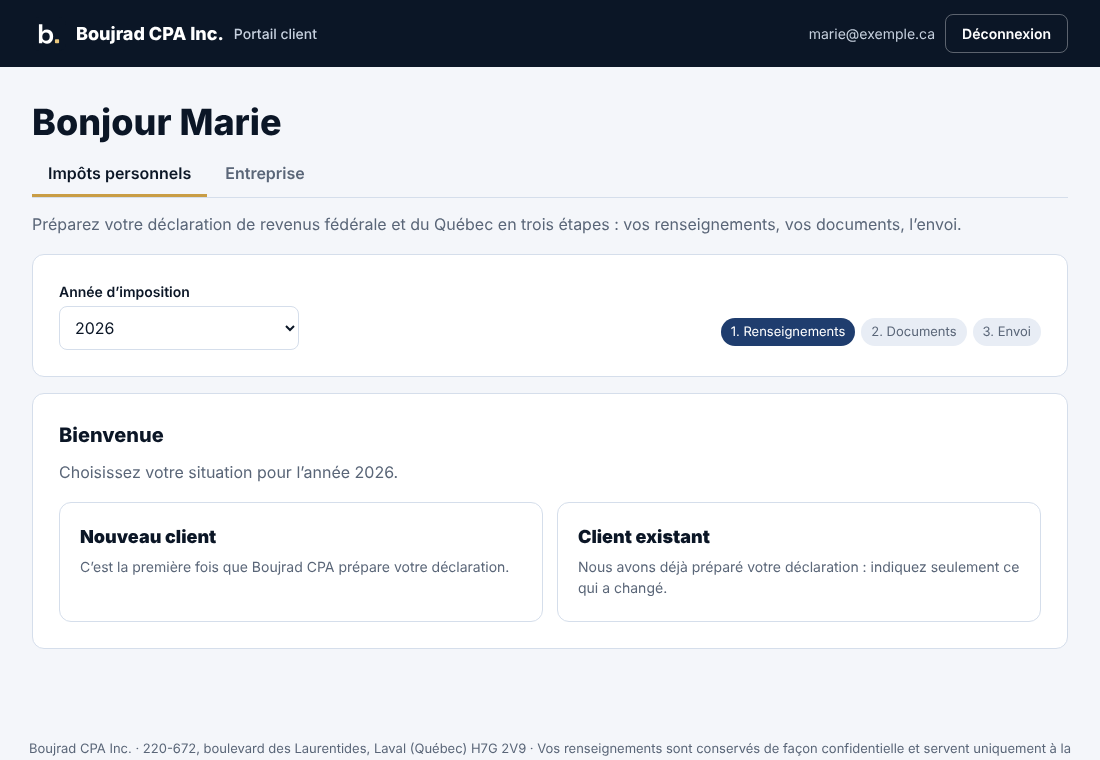
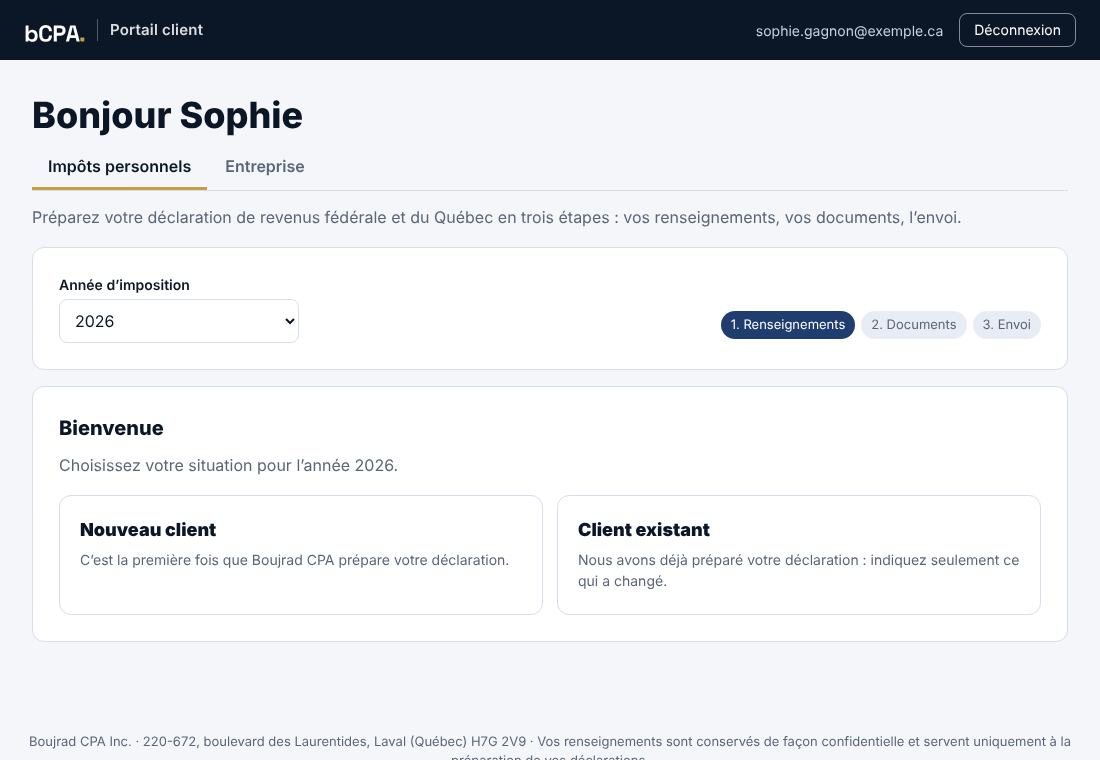
Guide du portail client refait : nouvelles captures propres (Sophie Gagnon, interface actuelle), dépôt en une seule fois mis en évidence (impôts personnels et entreprise), signature de documents, paiement des factures, questionnaires, autorisation comme représentant, sommaire cliquable
Claude-Session: https://claude.ai/code/session_0193Pq9QaKkmKEbjiHr2BjT5

diff --git a/site/guides/portail-client.html b/site/guides/portail-client.html
@@ -1,6 +1,6 @@
 <!DOCTYPE html><html lang="fr-CA"><head><meta charset="utf-8"><meta name="viewport" content="width=device-width,initial-scale=1">
-<title>Utiliser le portail client de Boujrad CPA · Boujrad CPA Inc.</title><script>document.documentElement.classList.add('js')</script><meta property="og:type" content="article"><meta property="og:site_name" content="Boujrad CPA Inc."><meta name="description" content="Créer votre compte, envoyer vos documents d’impôt, suivre votre entreprise et payer vos acomptes et vos taxes."><link rel="canonical" href="https://boujradcpa.com/guides/portail-client.html">
-<link rel="icon" href="/favicon.svg" type="image/svg+xml"><meta property="og:title" content="Utiliser le portail client de Boujrad CPA"><meta property="og:description" content="Créer votre compte, envoyer vos documents d’impôt, suivre votre entreprise et payer vos acomptes et vos taxes.">
+<title>Utiliser le portail client de Boujrad CPA · Boujrad CPA Inc.</title><script>document.documentElement.classList.add('js')</script><meta property="og:type" content="article"><meta property="og:site_name" content="Boujrad CPA Inc."><meta name="description" content="Créer votre compte, nous transmettre vos documents, signer, payer et suivre votre dossier, au même endroit."><link rel="canonical" href="https://boujradcpa.com/guides/portail-client.html">
+<link rel="icon" href="/favicon.svg" type="image/svg+xml"><meta property="og:title" content="Utiliser le portail client de Boujrad CPA"><meta property="og:description" content="Créer votre compte, nous transmettre vos documents, signer, payer et suivre votre dossier, au même endroit.">
 <link href="https://fonts.googleapis.com/css2?family=Inter:wght@400;500;600&family=Space+Grotesk:wght@500;700&display=swap" rel="stylesheet"><style>/* VOICE a CPA firm's public site: confident, warm, precise
    IDEA a ledger in motion: rising columns, ruled lines, totals that land
    PICTURE full-screen night-green hero with animated rising columns and a rotating lowercase promise
@@ -151,28 +151,49 @@ footer .brand{color:#fff}
 <div class="cxc cxm"><p class="cxk">Portail client</p><p class="cxd">Remplissez votre formulaire d’impôt et déposez vos documents en toute sécurité.</p><a class="btn deep" href="https://app.boujradcpa.com/portail.html">Accéder au portail</a><p class="cxn">Nouveau client? Créez votre compte sur le portail.</p></div>
 </div></div></header>
 <main class="gmain"><div class="wrap"><p class="crumb"><a href="/guides/">Guides</a> · Notre plateforme</p><h1>Utiliser le portail client de Boujrad CPA</h1>
-<p class="lede">Le portail client est l’endroit sécurisé pour nous transmettre vos renseignements et vos documents. Rien ne passe par courriel : vos pièces sont chiffrées et conservées au Canada.</p>
-<h2>Créer votre compte</h2><ol class="gsteps">
-<li><b>Ouvrez le portail</b><p>Allez à <a href="https://app.boujradcpa.com/portail.html">app.boujradcpa.com/portail.html</a>, ou cliquez sur <em>Connexion</em> puis <em>Portail client</em> en haut de notre site.</p></li>
+<p class="lede">Le portail client est votre espace sécurisé avec Boujrad CPA : vous y déposez vos documents, remplissez nos questionnaires, signez vos documents, consultez ce qui est à payer et nous écrivez. Rien ne passe par courriel : vos pièces sont chiffrées et conservées au Canada.</p>
+<div class="need"><strong>En un coup d’œil</strong><ul><li><a href="#compte">Créer votre compte</a></li><li><a href="#impots">Impôts personnels</a></li><li><a href="#entreprise">Espace Entreprise</a></li><li><a href="#signer">Signer un document</a></li><li><a href="#factures">Payer une facture du cabinet</a></li><li><a href="#questionnaires">Questionnaires de service</a></li><li><a href="#representant">Nous autoriser comme représentant</a></li></ul></div>
+
+<h2 id="compte">Créer votre compte</h2><ol class="gsteps">
+<li><b>Ouvrez le portail</b><p>Allez à <a href="https://app.boujradcpa.com/portail.html">app.boujradcpa.com/portail.html</a>, ou cliquez sur <em>Connexion</em>, puis <em>Portail client</em>, en haut de notre site. Si nous vous avons envoyé un lien d’invitation, utilisez-le : votre entreprise sera ajoutée automatiquement.</p></li>
 <li><b>Cliquez sur « Créer un compte »</b><p>Inscrivez votre nom, votre courriel et un mot de passe d’au moins 8 caractères.</p><img class="shot" src="img/portail-1-compte.png" alt="Formulaire de création de compte du portail" loading="lazy" width="1100"></li>
-<li><b>Confirmez votre courriel</b><p>Ouvrez le courriel de confirmation et cliquez sur le lien. Vous pouvez ensuite vous connecter en tout temps.</p></li>
+<li><b>Confirmez votre courriel</b><p>Ouvrez le courriel de confirmation et cliquez sur le lien. Vous pouvez ensuite vous connecter en tout temps, à partir d’un ordinateur, d’une tablette ou d’un téléphone.</p></li>
 </ol>
-<div class="tip"><strong>Mot de passe oublié?</strong> Entrez votre courriel sur la page de connexion, puis cliquez sur « Mot de passe oublié? » : un lien de réinitialisation vous est envoyé.</div>
-<h2>Impôts personnels : votre déclaration en trois étapes</h2><ol class="gsteps">
-<li><b>Choisissez l’année et votre situation</b><p><em>Nouveau client</em> si c’est votre première année avec nous, <em>Client existant</em> si nous avons déjà préparé votre déclaration : vous indiquez alors seulement ce qui a changé.</p><img class="shot" src="img/portail-2-accueil.png" alt="Choix nouveau client ou client existant" loading="lazy" width="1100"></li>
-<li><b>Remplissez le formulaire</b><p>Les champs marqués d’un astérisque sont requis. Si vous faites votre déclaration avec votre conjoint, ses renseignements sont dans le même formulaire : il n’a pas besoin de compte.</p><img class="shot" src="img/portail-3-formulaire.png" alt="Formulaire des impôts personnels" loading="lazy" width="1100"></li>
-<li><b>Déposez tous vos documents en une seule fois</b><p>La liste des documents à prévoir s’adapte à vos réponses. Glissez vos fichiers (PDF ou photos) dans la zone de dépôt, puis envoyez votre dossier.</p></li>
+<div class="tip"><strong>Mot de passe oublié?</strong> Sur la page de connexion, entrez votre courriel et cliquez sur « Mot de passe oublié? » : un lien de réinitialisation vous est envoyé.</div>
+
+<h2 id="impots">Impôts personnels : votre déclaration en trois étapes</h2><ol class="gsteps">
+<li><b>Choisissez l’année et votre situation</b><p><em>Nouveau client</em> si c’est votre première année avec nous; <em>Client existant</em> si nous avons déjà préparé votre déclaration : vous indiquez alors seulement ce qui a changé.</p><img class="shot" src="img/portail-2-accueil.png" alt="Accueil du portail : choix de la situation" loading="lazy" width="1100"></li>
+<li><b>Remplissez le formulaire</b><p>Les champs marqués d’un astérisque sont requis. Si nous préparons aussi la déclaration de votre conjoint, ses renseignements sont dans le même formulaire : il n’a pas besoin de compte. Vos réponses sont enregistrées au fur et à mesure.</p><img class="shot" src="img/portail-3-formulaire.png" alt="Formulaire de renseignements" loading="lazy" width="1100"></li>
+<li><b>Déposez tous vos documents en une seule fois</b><p>La liste des documents à prévoir s’adapte à vos réponses. Attendez d’avoir <strong>tous</strong> vos feuillets et reçus, puis glissez-les tous ensemble dans la zone de dépôt (PDF ou photos) et envoyez votre dossier.</p><img class="shot" src="img/portail-3b-documents.png" alt="Étape des documents, avec la consigne de tout déposer en une seule fois" loading="lazy" width="1100"></li>
 </ol>
-<h2>Espace Entreprise</h2><ol class="gsteps">
-<li><b>Entrez votre code d’invitation</b><p>Nous vous remettons un code pour chaque entreprise. Onglet <em>Entreprise</em>, entrez le code, puis cliquez sur <em>Accéder</em>. Vous pouvez ajouter plusieurs entreprises au même compte.</p><img class="shot" src="img/portail-4-code.png" alt="Saisie du code d’invitation" loading="lazy" width="1100"></li>
-<li><b>Consultez ce qui est à payer</b><p>Quand nous préparons une déclaration de taxes ou d’impôt, vous recevez un courriel. Le montant, la date limite et le code de paiement sont dans <em>À payer et documents du cabinet</em>. Une fois le paiement fait à votre institution financière, cliquez sur <em>J’ai fait le paiement</em> : nous sommes avisés.</p><img class="shot" src="img/portail-5-payer.png" alt="Documents à payer dans l’espace Entreprise" loading="lazy" width="1100"></li>
-<li><b>Déposez vos documents de la période</b><p>Onglet <em>Déposer des documents</em> : choisissez la période (relevés bancaires, factures), déposez tout, puis cliquez sur <em>J’ai terminé</em>.</p><img class="shot" src="img/portail-6-depot.png" alt="Dépôt de documents par période" loading="lazy" width="1100"></li>
-<li><b>Factures, échéancier et messages</b><p>Retrouvez vos factures, les prochaines dates limites de votre entreprise, et écrivez-nous dans <em>Messages</em> (avec pièces jointes au besoin).</p></li>
+<div class="tip"><strong>Important : tout en une seule fois.</strong> Nous préparons votre déclaration directement à partir des documents déposés, dès leur réception. Ne les envoyez pas au fur et à mesure : s’il vous manque un feuillet, gardez vos documents et revenez lorsque vous aurez tout en main. Cela évite les oublis et les retards.</div>
+
+<h2 id="entreprise">Espace Entreprise</h2><ol class="gsteps">
+<li><b>Ajoutez votre entreprise</b><p>Onglet <em>Entreprise</em> : entrez le code d’invitation que nous vous avons remis, puis cliquez sur <em>Accéder</em>. Vous pouvez ajouter plusieurs entreprises au même compte (bouton <em>Ajouter une autre entreprise</em>).</p><img class="shot" src="img/portail-4-code.png" alt="Ajout d’une entreprise avec le code d’invitation" loading="lazy" width="1100"></li>
+<li><b>Consultez ce qui est à payer</b><p>Quand nous préparons une déclaration de taxes ou d’impôt, vous recevez un courriel. Le montant, la date limite et le code de paiement sont dans <em>À payer et documents du cabinet</em>. Le paiement se fait auprès du gouvernement; une fois fait, cliquez sur <em>J’ai fait le paiement</em> pour nous en informer.</p><img class="shot" src="img/portail-5-payer.png" alt="Montants à payer et documents du cabinet" loading="lazy" width="1100"></li>
+<li><b>Déposez les documents de la période, tous en une seule fois</b><p>Onglet <em>Déposer des documents</em> : choisissez la période, déposez <strong>tous</strong> les relevés bancaires et de cartes, factures de ventes et d’achats, puis cliquez sur <em>J’ai terminé</em>. Nous préparons vos déclarations directement à partir de ce dépôt : s’il manque quelque chose, attendez d’avoir tout.</p><img class="shot" src="img/portail-6-depot.png" alt="Dépôt de documents de la période" loading="lazy" width="1100"></li>
+<li><b>Factures, échéancier et messages</b><p><em>Factures</em> : vos factures du cabinet et leur état. <em>Échéancier</em> : les prochaines dates limites de votre entreprise (taxes, retenues, impôt). <em>Messages</em> : écrivez-nous, avec pièces jointes au besoin; nous vous répondons au même endroit.</p></li>
 </ol>
-<h2>Questionnaires de service</h2>
-<p>Pour certains mandats (constitution d’une société, allocations pour enfants, pensions de retraite, succession, etc.), nous vous envoyons un lien vers un questionnaire. Il s’ouvre dans votre portail : répondez aux questions et déposez chaque pièce demandée à l’endroit prévu. Vos réponses sont enregistrées au fur et à mesure; cliquez sur <em>Envoyer au cabinet</em> quand tout est complet.</p>
-<img class="shot" src="img/portail-7-questionnaire.png" alt="Questionnaire de constitution de société" loading="lazy" width="1100">
-<div class="tip"><strong>Sécurité.</strong> Ne nous envoyez jamais de numéro d’assurance sociale ni de documents d’identité par courriel. Utilisez toujours le portail.</div>
+
+<h2 id="signer">Signer un document</h2>
+<p>Votre contrat de services, une procuration de Revenu Québec (formulaire MR-69) ou tout autre document à signer vous attend dans <em>À payer et documents du cabinet</em>, avec la mention <em>Document à signer</em>. Vous recevez aussi un courriel.</p><ol class="gsteps">
+<li><b>Cliquez sur « Lire et signer »</b><p>Le document s’affiche. Lisez-le au complet.</p><img class="shot" src="img/portail-8-a-signer.png" alt="Document à signer dans le portail" loading="lazy" width="1100"></li>
+<li><b>Cliquez à l’endroit où signer, puis signez</b><p>Cliquez sur la case de signature du document, inscrivez votre nom (et votre titre si vous signez pour une entreprise), signez avec la souris ou le doigt, puis cochez la case de consentement.</p><img class="shot" src="img/portail-8b-signature.png" alt="Signature électronique du document" loading="lazy" width="1100"></li>
+<li><b>Cliquez sur « Signer le document »</b><p>C’est fait : nous sommes avisés, et votre copie signée est disponible en tout temps dans votre portail (bouton <em>Copie signée</em>).</p></li>
+</ol>
+
+<h2 id="factures">Payer une facture du cabinet</h2>
+<p>Si vous n’êtes pas prélevé par débit préautorisé, vous recevez nos factures par courriel, avec un lien vers une page de paiement sécurisée. Vous pouvez y payer par virement Interac (les instructions y sont indiquées) ou, lorsque l’option est offerte, par carte de crédit. Vos factures sont aussi dans l’onglet <em>Factures</em> du portail.</p>
+
+<h2 id="questionnaires">Questionnaires de service</h2>
+<p>Pour certains mandats (ouverture de dossier, constitution d’une société, fin d’exercice, allocations pour enfants, pensions de retraite, succession, etc.), nous vous envoyons un lien vers un questionnaire. Il s’ouvre dans votre portail : répondez aux questions et déposez chaque pièce demandée au bon endroit. Vos réponses sont enregistrées automatiquement; vous pouvez revenir terminer plus tard, puis cliquez sur <em>Envoyer au cabinet</em>.</p>
+<img class="shot" src="img/portail-7-questionnaire.png" alt="Questionnaire de service dans le portail" loading="lazy" width="1100">
+
+<h2 id="representant">Nous autoriser comme représentant</h2>
+<p>Pour que nous puissions parler à l’ARC et à Revenu Québec en votre nom, la carte <em>Nous autoriser comme représentant</em> du portail vous explique quoi faire. Le plus souvent, nous faisons la demande à l’ARC et vous n’avez qu’à la confirmer dans votre compte; pour Revenu Québec, nous vous faisons signer la procuration dans le portail. Toutes les étapes sont dans le guide <a href="autoriser-representant.html">Autoriser Boujrad CPA comme représentant</a>.</p>
+<img class="shot" src="img/portail-9-representant.png" alt="Carte Nous autoriser comme représentant" loading="lazy" width="1100">
+
+<div class="tip"><strong>Sécurité.</strong> Ne nous envoyez jamais de numéro d’assurance sociale, de pièce d’identité ni de document fiscal par courriel : utilisez toujours le portail. Nous ne vous demanderons jamais votre mot de passe.</div>
 <p style="margin-top:28px"><a class="btn deep" href="https://app.boujradcpa.com/portail.html">Aller au portail client</a></p><p style="margin-top:36px"><a href="/guides/">← Tous les guides</a></p></div></main>
 <footer><div class="wrap"><div><a class="brand" href="/"><svg class="wm" width="60.9" height="24" viewBox="0 -2 264 104" role="img" aria-label="bCPA"><path d="M36.800000000000004 101.4Q30.1 101.4 26.5 99.1Q22.900000000000002 96.8 21.200000000000003 94.0H19.400000000000002V100.0H7.0V30.0H19.6V56.099999999999994H21.400000000000002Q22.5 54.3 24.35 52.699999999999996Q26.200000000000003 51.099999999999994 29.250000000000004 50.05Q32.300000000000004 49.0 36.800000000000004 49.0Q42.800000000000004 49.0 47.900000000000006 51.95Q53.0 54.9 56.1 60.599999999999994Q59.2 66.3 59.2 74.4V76.0Q59.2 84.1 56.1 89.8Q53.0 95.5 47.900000000000006 98.45Q42.800000000000004 101.4 36.800000000000004 101.4ZM33.0 90.4Q38.800000000000004 90.4 42.7 86.65Q46.6 82.9 46.6 75.7V74.7Q46.6 67.5 42.75 63.75Q38.900000000000006 60.0 33.0 60.0Q27.200000000000003 60.0 23.300000000000004 63.75Q19.400000000000002 67.5 19.400000000000002 74.7V75.7Q19.400000000000002 82.9 23.300000000000004 86.65Q27.200000000000003 90.4 33.0 90.4ZM94.0 101.4Q81.0 101.4 73.4 94.15Q65.80000000000001 86.9 65.80000000000001 73.4V56.599999999999994Q65.80000000000001 43.099999999999994 73.4 35.849999999999994Q81.0 28.599999999999994 94.0 28.599999999999994Q106.9 28.599999999999994 113.95 35.64999999999999Q121.0 42.699999999999996 121.0 55.0V55.599999999999994H108.0V54.599999999999994Q108.0 48.4 104.55000000000001 44.4Q101.10000000000001 40.4 94.0 40.4Q87.0 40.4 83.0 44.7Q79.0 49.0 79.0 56.4V73.6Q79.0 80.9 83.0 85.25Q87.0 89.6 94.0 89.6Q101.10000000000001 89.6 104.55000000000001 85.55Q108.0 81.5 108.0 75.4V73.6H121.0V75.0Q121.0 87.3 113.95 94.35Q106.9 101.4 94.0 101.4ZM128.8 100.0V30.0H157.60000000000002Q164.20000000000002 30.0 169.25 32.65Q174.3 35.3 177.15000000000003 40.099999999999994Q180.00000000000003 44.9 180.00000000000003 51.5V52.9Q180.00000000000003 59.4 177.05 64.25Q174.10000000000002 69.1 169.05 71.75Q164.00000000000003 74.4 157.60000000000002 74.4H142.00000000000003V100.0ZM142.00000000000003 62.4H156.3Q161.00000000000003 62.4 163.90000000000003 59.8Q166.8 57.199999999999996 166.8 52.699999999999996V51.699999999999996Q166.8 47.199999999999996 163.90000000000003 44.599999999999994Q161.00000000000003 42.0 156.3 42.0H142.00000000000003ZM181.40000000000003 100.0 199.8 30.0H222.8L241.20000000000002 100.0H227.60000000000002L223.8 84.6H198.8L195.00000000000003 100.0ZM201.90000000000003 72.4H220.70000000000002L212.20000000000002 38.3H210.40000000000003Z" fill="currentColor"/><g class="wdot"><rect x="244.0" y="83" width="17" height="17" rx="3"/></g></svg></a></div><div><p style="margin:0">Ces guides sont fournis à titre informatif. Les étapes des sites gouvernementaux peuvent changer : en cas de doute, fiez-vous aux sources officielles indiquées.</p><p style="margin:4px 0 0">© 2026 Boujrad CPA Inc.</p></div></div></footer><script>{
 const h = document.querySelector('header');

diff --git a/site/guides/index.html b/site/guides/index.html
@@ -150,7 +150,7 @@ footer .brand{color:#fff}
 <div class="cxc"><p class="cxk">Intranet</p><p class="cxd">Réservé à l’équipe du cabinet.</p><div class="cxl"><a href="https://app.boujradcpa.com/">Comptabilité <span>→</span></a><a href="https://app.boujradcpa.com/centre.html">Gestion du cabinet <span>→</span></a></div></div>
 <div class="cxc cxm"><p class="cxk">Portail client</p><p class="cxd">Remplissez votre formulaire d’impôt et déposez vos documents en toute sécurité.</p><a class="btn deep" href="https://app.boujradcpa.com/portail.html">Accéder au portail</a><p class="cxn">Nouveau client? Créez votre compte sur le portail.</p></div>
 </div></div></header>
-<main class="gmain"><div class="wrap"><h1>Chroniques et guides</h1><p class="lede">Les nouveautés fiscales qui vous touchent, des conseils pratiques et des marches à suivre simples pour vos démarches en ligne.</p><h2 style="margin-top:8px">Chroniques</h2><div class="gcards"><a class="gcard" href="/guides/budget-federal-2026.html"><small>Nouveautés fiscales · 25 novembre 2026</small><h2>Budget fédéral du 5 novembre 2026 : ce qui pourrait changer pour vous</h2><p>Date limite du 15 mai, acomptes provisionnels allégés, crédit pour aidants remboursable, nouvelle exemption pour les entrepreneurs : les mesures à surveiller.</p></a><a class="gcard" href="/guides/fin-annee-2026.html"><small>Conseils · 24 novembre 2026</small><h2>Avant le 31 décembre : 8 gestes pour payer moins d’impôt</h2><p>CELI, REER, pertes en capital, dons, dépenses à payer avant la fin de l’année : la liste à vérifier d’ici le 31 décembre 2026.</p></a><a class="gcard" href="/guides/changements-2026.html"><small>Nouveautés fiscales · 20 novembre 2026</small><h2>Impôt 2026 : les changements qui touchent votre déclaration</h2><p>Taux fédéral de 14 %, indexation de 2,05 % au Québec et cotisations au RRQ et au RQAP réduites : ce que vous verrez dans votre déclaration 2026.</p></a></div><h2>Guides pratiques</h2><div class="gcards"><a class="gcard" href="/guides/portail-client.html"><small>Notre plateforme</small><h2>Utiliser le portail client de Boujrad CPA</h2><p>Créer votre compte, envoyer vos documents d’impôt, suivre votre entreprise et payer vos acomptes et vos taxes.</p></a><a class="gcard" href="/guides/compte-arc.html"><small>Gouvernement du Canada</small><h2>Créer votre compte de l’ARC (Mon dossier)</h2><p>Consulter vos avis de cotisation, vos feuillets et vos prestations en ligne auprès de l’Agence du revenu du Canada.</p></a><a class="gcard" href="/guides/autoriser-representant.html"><small>Gouvernement du Canada et du Québec</small><h2>Autoriser Boujrad CPA comme représentant (ARC et Revenu Québec)</h2><p>Nous donner accès à votre dossier fiscal pour que nous puissions répondre aux gouvernements et récupérer vos feuillets à votre place.</p></a><a class="gcard" href="/guides/mon-dossier-revenu-quebec.html"><small>Gouvernement du Québec</small><h2>Accéder à Mon dossier de Revenu Québec</h2><p>Voir vos avis de cotisation du Québec, vos relevés et vos remboursements, et faire vos démarches en ligne.</p></a><a class="gcard" href="/guides/allocations-enfants.html"><small>Familles</small><h2>Allocations pour enfants : ce qu’il faut savoir</h2><p>Allocation famille du Québec et allocation canadienne pour enfants : quand faire une demande et quels documents préparer.</p></a></div></div></main>
+<main class="gmain"><div class="wrap"><h1>Chroniques et guides</h1><p class="lede">Les nouveautés fiscales qui vous touchent, des conseils pratiques et des marches à suivre simples pour vos démarches en ligne.</p><h2 style="margin-top:8px">Chroniques</h2><div class="gcards"><a class="gcard" href="/guides/budget-federal-2026.html"><small>Nouveautés fiscales · 25 novembre 2026</small><h2>Budget fédéral du 5 novembre 2026 : ce qui pourrait changer pour vous</h2><p>Date limite du 15 mai, acomptes provisionnels allégés, crédit pour aidants remboursable, nouvelle exemption pour les entrepreneurs : les mesures à surveiller.</p></a><a class="gcard" href="/guides/fin-annee-2026.html"><small>Conseils · 24 novembre 2026</small><h2>Avant le 31 décembre : 8 gestes pour payer moins d’impôt</h2><p>CELI, REER, pertes en capital, dons, dépenses à payer avant la fin de l’année : la liste à vérifier d’ici le 31 décembre 2026.</p></a><a class="gcard" href="/guides/changements-2026.html"><small>Nouveautés fiscales · 20 novembre 2026</small><h2>Impôt 2026 : les changements qui touchent votre déclaration</h2><p>Taux fédéral de 14 %, indexation de 2,05 % au Québec et cotisations au RRQ et au RQAP réduites : ce que vous verrez dans votre déclaration 2026.</p></a></div><h2>Guides pratiques</h2><div class="gcards"><a class="gcard" href="/guides/portail-client.html"><small>Notre plateforme</small><h2>Utiliser le portail client de Boujrad CPA</h2><p>Créer votre compte, nous transmettre vos documents, signer, payer et suivre votre dossier, au même endroit.</p></a><a class="gcard" href="/guides/compte-arc.html"><small>Gouvernement du Canada</small><h2>Créer votre compte de l’ARC (Mon dossier)</h2><p>Consulter vos avis de cotisation, vos feuillets et vos prestations en ligne auprès de l’Agence du revenu du Canada.</p></a><a class="gcard" href="/guides/autoriser-representant.html"><small>Gouvernement du Canada et du Québec</small><h2>Autoriser Boujrad CPA comme représentant (ARC et Revenu Québec)</h2><p>Nous donner accès à votre dossier fiscal pour que nous puissions répondre aux gouvernements et récupérer vos feuillets à votre place.</p></a><a class="gcard" href="/guides/mon-dossier-revenu-quebec.html"><small>Gouvernement du Québec</small><h2>Accéder à Mon dossier de Revenu Québec</h2><p>Voir vos avis de cotisation du Québec, vos relevés et vos remboursements, et faire vos démarches en ligne.</p></a><a class="gcard" href="/guides/allocations-enfants.html"><small>Familles</small><h2>Allocations pour enfants : ce qu’il faut savoir</h2><p>Allocation famille du Québec et allocation canadienne pour enfants : quand faire une demande et quels documents préparer.</p></a></div></div></main>
 <footer><div class="wrap"><div><a class="brand" href="/"><svg class="wm" width="60.9" height="24" viewBox="0 -2 264 104" role="img" aria-label="bCPA"><path d="M36.800000000000004 101.4Q30.1 101.4 26.5 99.1Q22.900000000000002 96.8 21.200000000000003 94.0H19.400000000000002V100.0H7.0V30.0H19.6V56.099999999999994H21.400000000000002Q22.5 54.3 24.35 52.699999999999996Q26.200000000000003 51.099999999999994 29.250000000000004 50.05Q32.300000000000004 49.0 36.800000000000004 49.0Q42.800000000000004 49.0 47.900000000000006 51.95Q53.0 54.9 56.1 60.599999999999994Q59.2 66.3 59.2 74.4V76.0Q59.2 84.1 56.1 89.8Q53.0 95.5 47.900000000000006 98.45Q42.800000000000004 101.4 36.800000000000004 101.4ZM33.0 90.4Q38.800000000000004 90.4 42.7 86.65Q46.6 82.9 46.6 75.7V74.7Q46.6 67.5 42.75 63.75Q38.900000000000006 60.0 33.0 60.0Q27.200000000000003 60.0 23.300000000000004 63.75Q19.400000000000002 67.5 19.400000000000002 74.7V75.7Q19.400000000000002 82.9 23.300000000000004 86.65Q27.200000000000003 90.4 33.0 90.4ZM94.0 101.4Q81.0 101.4 73.4 94.15Q65.80000000000001 86.9 65.80000000000001 73.4V56.599999999999994Q65.80000000000001 43.099999999999994 73.4 35.849999999999994Q81.0 28.599999999999994 94.0 28.599999999999994Q106.9 28.599999999999994 113.95 35.64999999999999Q121.0 42.699999999999996 121.0 55.0V55.599999999999994H108.0V54.599999999999994Q108.0 48.4 104.55000000000001 44.4Q101.10000000000001 40.4 94.0 40.4Q87.0 40.4 83.0 44.7Q79.0 49.0 79.0 56.4V73.6Q79.0 80.9 83.0 85.25Q87.0 89.6 94.0 89.6Q101.10000000000001 89.6 104.55000000000001 85.55Q108.0 81.5 108.0 75.4V73.6H121.0V75.0Q121.0 87.3 113.95 94.35Q106.9 101.4 94.0 101.4ZM128.8 100.0V30.0H157.60000000000002Q164.20000000000002 30.0 169.25 32.65Q174.3 35.3 177.15000000000003 40.099999999999994Q180.00000000000003 44.9 180.00000000000003 51.5V52.9Q180.00000000000003 59.4 177.05 64.25Q174.10000000000002 69.1 169.05 71.75Q164.00000000000003 74.4 157.60000000000002 74.4H142.00000000000003V100.0ZM142.00000000000003 62.4H156.3Q161.00000000000003 62.4 163.90000000000003 59.8Q166.8 57.199999999999996 166.8 52.699999999999996V51.699999999999996Q166.8 47.199999999999996 163.90000000000003 44.599999999999994Q161.00000000000003 42.0 156.3 42.0H142.00000000000003ZM181.40000000000003 100.0 199.8 30.0H222.8L241.20000000000002 100.0H227.60000000000002L223.8 84.6H198.8L195.00000000000003 100.0ZM201.90000000000003 72.4H220.70000000000002L212.20000000000002 38.3H210.40000000000003Z" fill="currentColor"/><g class="wdot"><rect x="244.0" y="83" width="17" height="17" rx="3"/></g></svg></a></div><div><p style="margin:0">Ces guides sont fournis à titre informatif. Les étapes des sites gouvernementaux peuvent changer : en cas de doute, fiez-vous aux sources officielles indiquées.</p><p style="margin:4px 0 0">© 2026 Boujrad CPA Inc.</p></div></div></footer><script>{
 const h = document.querySelector('header');
 const hero = document.querySelector('.hero');

diff --git a/guides.py b/guides.py
@@ -24,30 +24,51 @@ APPURL = 'https://app.boujradcpa.com'
 
 GUIDES = [
  dict(slug='portail-client', cat='Notre plateforme', titre='Utiliser le portail client de Boujrad CPA',
-  resume='Créer votre compte, envoyer vos documents d’impôt, suivre votre entreprise et payer vos acomptes et vos taxes.',
+  resume='Créer votre compte, nous transmettre vos documents, signer, payer et suivre votre dossier, au même endroit.',
   corps=f'''
-<p class="lede">Le portail client est l’endroit sécurisé pour nous transmettre vos renseignements et vos documents. Rien ne passe par courriel : vos pièces sont chiffrées et conservées au Canada.</p>
-<h2>Créer votre compte</h2><ol class="gsteps">
-{step('Ouvrez le portail', f'<p>Allez à <a href="{APPURL}/portail.html">app.boujradcpa.com/portail.html</a>, ou cliquez sur <em>Connexion</em> puis <em>Portail client</em> en haut de notre site.</p>')}
+<p class="lede">Le portail client est votre espace sécurisé avec Boujrad CPA : vous y déposez vos documents, remplissez nos questionnaires, signez vos documents, consultez ce qui est à payer et nous écrivez. Rien ne passe par courriel : vos pièces sont chiffrées et conservées au Canada.</p>
+<div class="need"><strong>En un coup d’œil</strong><ul><li><a href="#compte">Créer votre compte</a></li><li><a href="#impots">Impôts personnels</a></li><li><a href="#entreprise">Espace Entreprise</a></li><li><a href="#signer">Signer un document</a></li><li><a href="#factures">Payer une facture du cabinet</a></li><li><a href="#questionnaires">Questionnaires de service</a></li><li><a href="#representant">Nous autoriser comme représentant</a></li></ul></div>
+
+<h2 id="compte">Créer votre compte</h2><ol class="gsteps">
+{step('Ouvrez le portail', f'<p>Allez à <a href="{APPURL}/portail.html">app.boujradcpa.com/portail.html</a>, ou cliquez sur <em>Connexion</em>, puis <em>Portail client</em>, en haut de notre site. Si nous vous avons envoyé un lien d’invitation, utilisez-le : votre entreprise sera ajoutée automatiquement.</p>')}
 {step('Cliquez sur « Créer un compte »', '<p>Inscrivez votre nom, votre courriel et un mot de passe d’au moins 8 caractères.</p>', 'portail-1-compte.png', 'Formulaire de création de compte du portail')}
-{step('Confirmez votre courriel', '<p>Ouvrez le courriel de confirmation et cliquez sur le lien. Vous pouvez ensuite vous connecter en tout temps.</p>')}
+{step('Confirmez votre courriel', '<p>Ouvrez le courriel de confirmation et cliquez sur le lien. Vous pouvez ensuite vous connecter en tout temps, à partir d’un ordinateur, d’une tablette ou d’un téléphone.</p>')}
 </ol>
-<div class="tip"><strong>Mot de passe oublié?</strong> Entrez votre courriel sur la page de connexion, puis cliquez sur « Mot de passe oublié? » : un lien de réinitialisation vous est envoyé.</div>
-<h2>Impôts personnels : votre déclaration en trois étapes</h2><ol class="gsteps">
-{step('Choisissez l’année et votre situation', '<p><em>Nouveau client</em> si c’est votre première année avec nous, <em>Client existant</em> si nous avons déjà préparé votre déclaration : vous indiquez alors seulement ce qui a changé.</p>', 'portail-2-accueil.png', 'Choix nouveau client ou client existant')}
-{step('Remplissez le formulaire', '<p>Les champs marqués d’un astérisque sont requis. Si vous faites votre déclaration avec votre conjoint, ses renseignements sont dans le même formulaire : il n’a pas besoin de compte.</p>', 'portail-3-formulaire.png', 'Formulaire des impôts personnels')}
-{step('Déposez tous vos documents en une seule fois', '<p>La liste des documents à prévoir s’adapte à vos réponses. Glissez vos fichiers (PDF ou photos) dans la zone de dépôt, puis envoyez votre dossier.</p>')}
+<div class="tip"><strong>Mot de passe oublié?</strong> Sur la page de connexion, entrez votre courriel et cliquez sur « Mot de passe oublié? » : un lien de réinitialisation vous est envoyé.</div>
+
+<h2 id="impots">Impôts personnels : votre déclaration en trois étapes</h2><ol class="gsteps">
+{step('Choisissez l’année et votre situation', '<p><em>Nouveau client</em> si c’est votre première année avec nous; <em>Client existant</em> si nous avons déjà préparé votre déclaration : vous indiquez alors seulement ce qui a changé.</p>', 'portail-2-accueil.png', 'Accueil du portail : choix de la situation')}
+{step('Remplissez le formulaire', '<p>Les champs marqués d’un astérisque sont requis. Si nous préparons aussi la déclaration de votre conjoint, ses renseignements sont dans le même formulaire : il n’a pas besoin de compte. Vos réponses sont enregistrées au fur et à mesure.</p>', 'portail-3-formulaire.png', 'Formulaire de renseignements')}
+{step('Déposez tous vos documents en une seule fois', '<p>La liste des documents à prévoir s’adapte à vos réponses. Attendez d’avoir <strong>tous</strong> vos feuillets et reçus, puis glissez-les tous ensemble dans la zone de dépôt (PDF ou photos) et envoyez votre dossier.</p>', 'portail-3b-documents.png', 'Étape des documents, avec la consigne de tout déposer en une seule fois')}
 </ol>
-<h2>Espace Entreprise</h2><ol class="gsteps">
-{step('Entrez votre code d’invitation', '<p>Nous vous remettons un code pour chaque entreprise. Onglet <em>Entreprise</em>, entrez le code, puis cliquez sur <em>Accéder</em>. Vous pouvez ajouter plusieurs entreprises au même compte.</p>', 'portail-4-code.png', 'Saisie du code d’invitation')}
-{step('Consultez ce qui est à payer', '<p>Quand nous préparons une déclaration de taxes ou d’impôt, vous recevez un courriel. Le montant, la date limite et le code de paiement sont dans <em>À payer et documents du cabinet</em>. Une fois le paiement fait à votre institution financière, cliquez sur <em>J’ai fait le paiement</em> : nous sommes avisés.</p>', 'portail-5-payer.png', 'Documents à payer dans l’espace Entreprise')}
-{step('Déposez vos documents de la période', '<p>Onglet <em>Déposer des documents</em> : choisissez la période (relevés bancaires, factures), déposez tout, puis cliquez sur <em>J’ai terminé</em>.</p>', 'portail-6-depot.png', 'Dépôt de documents par période')}
-{step('Factures, échéancier et messages', '<p>Retrouvez vos factures, les prochaines dates limites de votre entreprise, et écrivez-nous dans <em>Messages</em> (avec pièces jointes au besoin).</p>')}
+<div class="tip"><strong>Important : tout en une seule fois.</strong> Nous préparons votre déclaration directement à partir des documents déposés, dès leur réception. Ne les envoyez pas au fur et à mesure : s’il vous manque un feuillet, gardez vos documents et revenez lorsque vous aurez tout en main. Cela évite les oublis et les retards.</div>
+
+<h2 id="entreprise">Espace Entreprise</h2><ol class="gsteps">
+{step('Ajoutez votre entreprise', '<p>Onglet <em>Entreprise</em> : entrez le code d’invitation que nous vous avons remis, puis cliquez sur <em>Accéder</em>. Vous pouvez ajouter plusieurs entreprises au même compte (bouton <em>Ajouter une autre entreprise</em>).</p>', 'portail-4-code.png', 'Ajout d’une entreprise avec le code d’invitation')}
+{step('Consultez ce qui est à payer', '<p>Quand nous préparons une déclaration de taxes ou d’impôt, vous recevez un courriel. Le montant, la date limite et le code de paiement sont dans <em>À payer et documents du cabinet</em>. Le paiement se fait auprès du gouvernement; une fois fait, cliquez sur <em>J’ai fait le paiement</em> pour nous en informer.</p>', 'portail-5-payer.png', 'Montants à payer et documents du cabinet')}
+{step('Déposez les documents de la période, tous en une seule fois', '<p>Onglet <em>Déposer des documents</em> : choisissez la période, déposez <strong>tous</strong> les relevés bancaires et de cartes, factures de ventes et d’achats, puis cliquez sur <em>J’ai terminé</em>. Nous préparons vos déclarations directement à partir de ce dépôt : s’il manque quelque chose, attendez d’avoir tout.</p>', 'portail-6-depot.png', 'Dépôt de documents de la période')}
+{step('Factures, échéancier et messages', '<p><em>Factures</em> : vos factures du cabinet et leur état. <em>Échéancier</em> : les prochaines dates limites de votre entreprise (taxes, retenues, impôt). <em>Messages</em> : écrivez-nous, avec pièces jointes au besoin; nous vous répondons au même endroit.</p>')}
 </ol>
-<h2>Questionnaires de service</h2>
-<p>Pour certains mandats (constitution d’une société, allocations pour enfants, pensions de retraite, succession, etc.), nous vous envoyons un lien vers un questionnaire. Il s’ouvre dans votre portail : répondez aux questions et déposez chaque pièce demandée à l’endroit prévu. Vos réponses sont enregistrées au fur et à mesure; cliquez sur <em>Envoyer au cabinet</em> quand tout est complet.</p>
-<img class="shot" src="img/portail-7-questionnaire.png" alt="Questionnaire de constitution de société" loading="lazy" width="1100">
-<div class="tip"><strong>Sécurité.</strong> Ne nous envoyez jamais de numéro d’assurance sociale ni de documents d’identité par courriel. Utilisez toujours le portail.</div>
+
+<h2 id="signer">Signer un document</h2>
+<p>Votre contrat de services, une procuration de Revenu Québec (formulaire MR-69) ou tout autre document à signer vous attend dans <em>À payer et documents du cabinet</em>, avec la mention <em>Document à signer</em>. Vous recevez aussi un courriel.</p><ol class="gsteps">
+{step('Cliquez sur « Lire et signer »', '<p>Le document s’affiche. Lisez-le au complet.</p>', 'portail-8-a-signer.png', 'Document à signer dans le portail')}
+{step('Cliquez à l’endroit où signer, puis signez', '<p>Cliquez sur la case de signature du document, inscrivez votre nom (et votre titre si vous signez pour une entreprise), signez avec la souris ou le doigt, puis cochez la case de consentement.</p>', 'portail-8b-signature.png', 'Signature électronique du document')}
+{step('Cliquez sur « Signer le document »', '<p>C’est fait : nous sommes avisés, et votre copie signée est disponible en tout temps dans votre portail (bouton <em>Copie signée</em>).</p>')}
+</ol>
+
+<h2 id="factures">Payer une facture du cabinet</h2>
+<p>Si vous n’êtes pas prélevé par débit préautorisé, vous recevez nos factures par courriel, avec un lien vers une page de paiement sécurisée. Vous pouvez y payer par virement Interac (les instructions y sont indiquées) ou, lorsque l’option est offerte, par carte de crédit. Vos factures sont aussi dans l’onglet <em>Factures</em> du portail.</p>
+
+<h2 id="questionnaires">Questionnaires de service</h2>
+<p>Pour certains mandats (ouverture de dossier, constitution d’une société, fin d’exercice, allocations pour enfants, pensions de retraite, succession, etc.), nous vous envoyons un lien vers un questionnaire. Il s’ouvre dans votre portail : répondez aux questions et déposez chaque pièce demandée au bon endroit. Vos réponses sont enregistrées automatiquement; vous pouvez revenir terminer plus tard, puis cliquez sur <em>Envoyer au cabinet</em>.</p>
+<img class="shot" src="img/portail-7-questionnaire.png" alt="Questionnaire de service dans le portail" loading="lazy" width="1100">
+
+<h2 id="representant">Nous autoriser comme représentant</h2>
+<p>Pour que nous puissions parler à l’ARC et à Revenu Québec en votre nom, la carte <em>Nous autoriser comme représentant</em> du portail vous explique quoi faire. Le plus souvent, nous faisons la demande à l’ARC et vous n’avez qu’à la confirmer dans votre compte; pour Revenu Québec, nous vous faisons signer la procuration dans le portail. Toutes les étapes sont dans le guide <a href="autoriser-representant.html">Autoriser Boujrad CPA comme représentant</a>.</p>
+<img class="shot" src="img/portail-9-representant.png" alt="Carte Nous autoriser comme représentant" loading="lazy" width="1100">
+
+<div class="tip"><strong>Sécurité.</strong> Ne nous envoyez jamais de numéro d’assurance sociale, de pièce d’identité ni de document fiscal par courriel : utilisez toujours le portail. Nous ne vous demanderons jamais votre mot de passe.</div>
 <p style="margin-top:28px"><a class="btn deep" href="{APPURL}/portail.html">Aller au portail client</a></p>'''),
 
  dict(slug='compte-arc', cat='Gouvernement du Canada', titre='Créer votre compte de l’ARC (Mon dossier)',
